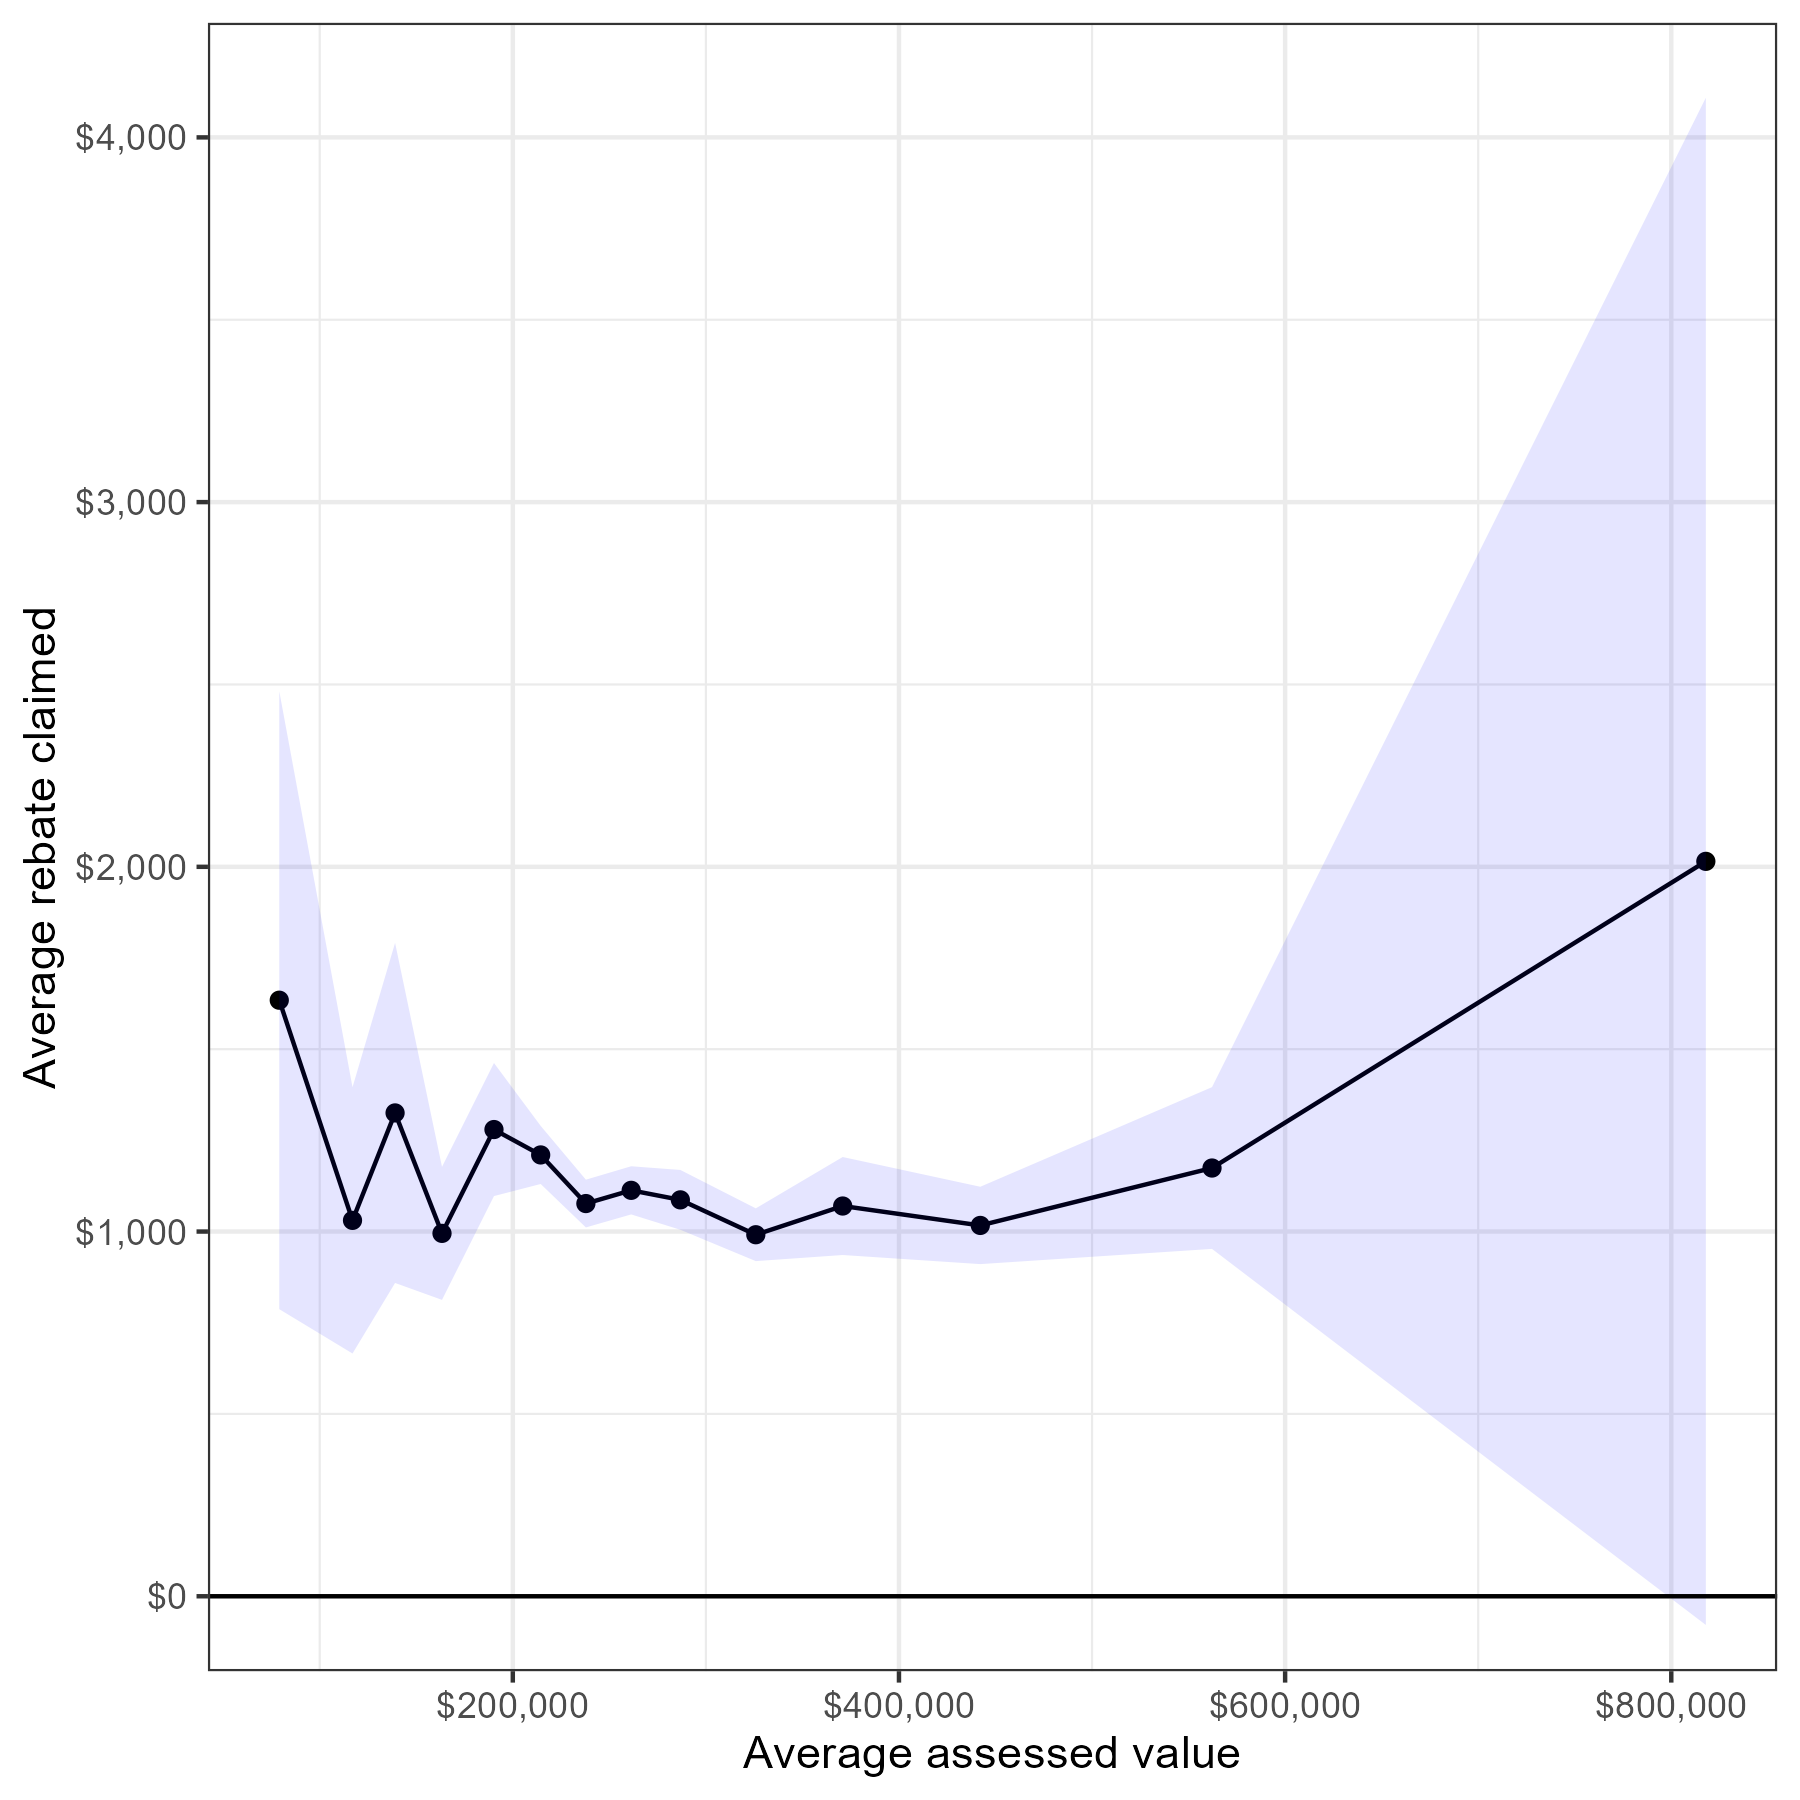
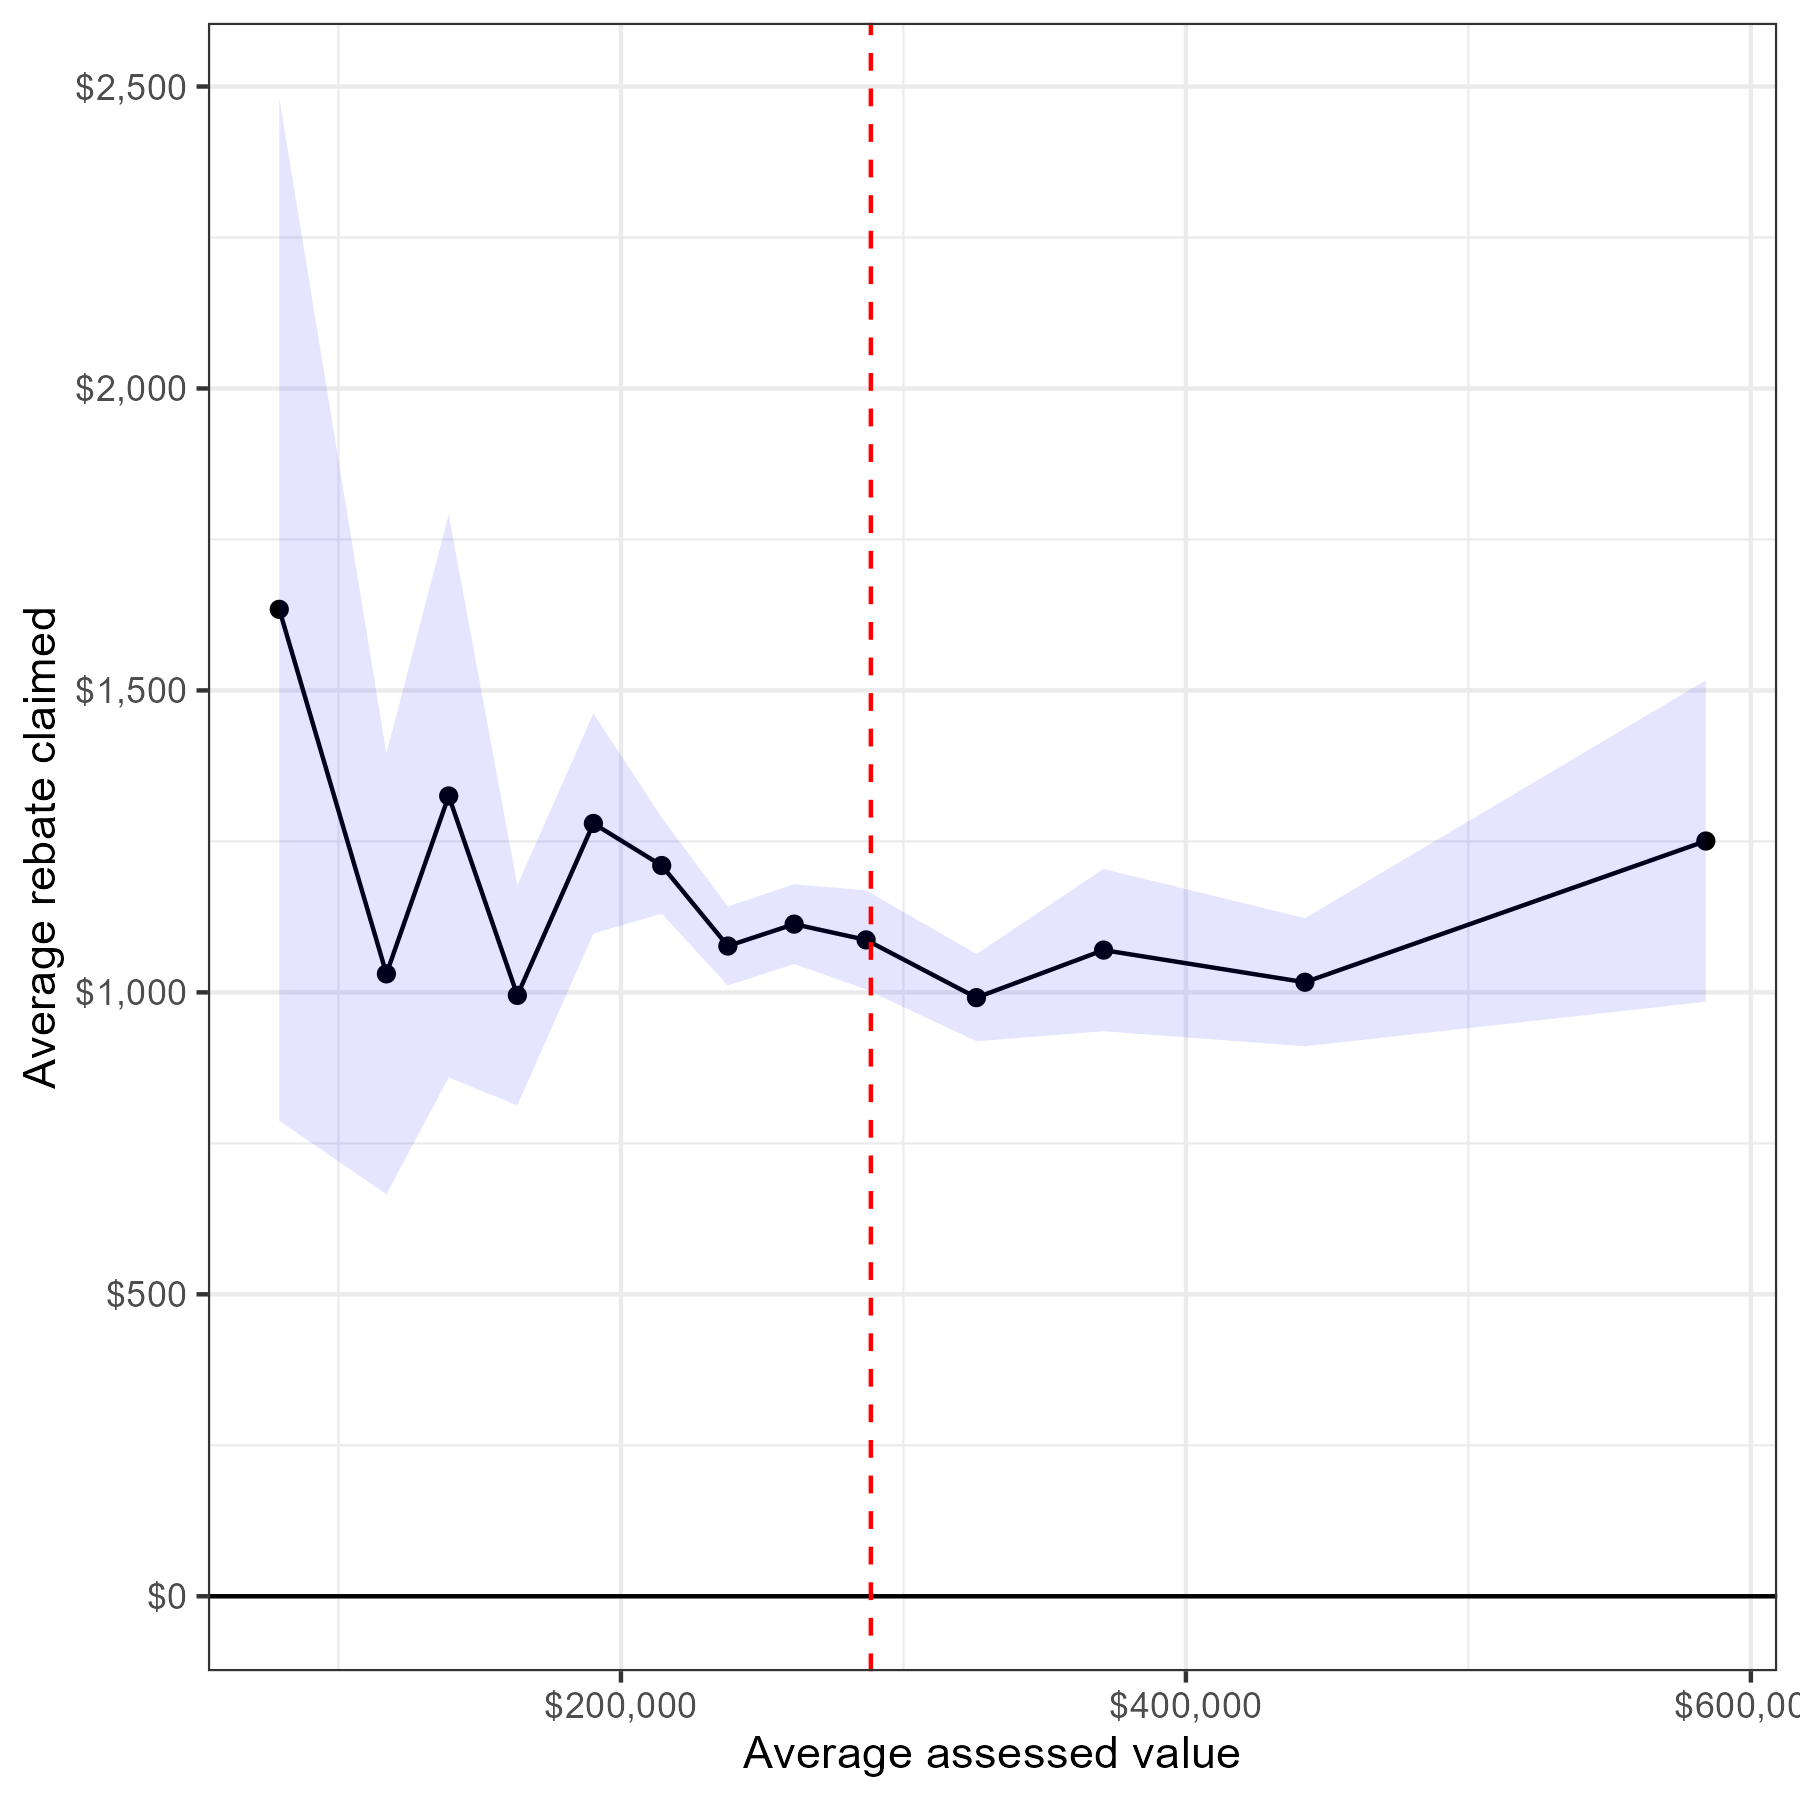
figure scale changes

diff --git a/output_figures_tables/dollar_savings_mbm.tex b/output_figures_tables/dollar_savings_mbm.tex
@@ -1,5 +1,5 @@
 % latex table generated in R 4.2.2 by xtable 1.8-4 package
-% Mon Jul 10 08:54:38 2023
+% Thu Oct 26 14:03:17 2023
 \begin{table}[ht]
 \centering
 \begin{tabular}{rlrrrrrrr}

diff --git a/output_figures_tables/dollar_savings.tex b/output_figures_tables/dollar_savings.tex
@@ -1,5 +1,5 @@
 % latex table generated in R 4.2.2 by xtable 1.8-4 package
-% Mon Jul 10 08:46:19 2023
+% Thu Oct 26 13:41:40 2023
 \begin{table}[ht]
 \centering
 \begin{tabular}{rrrrrr}
